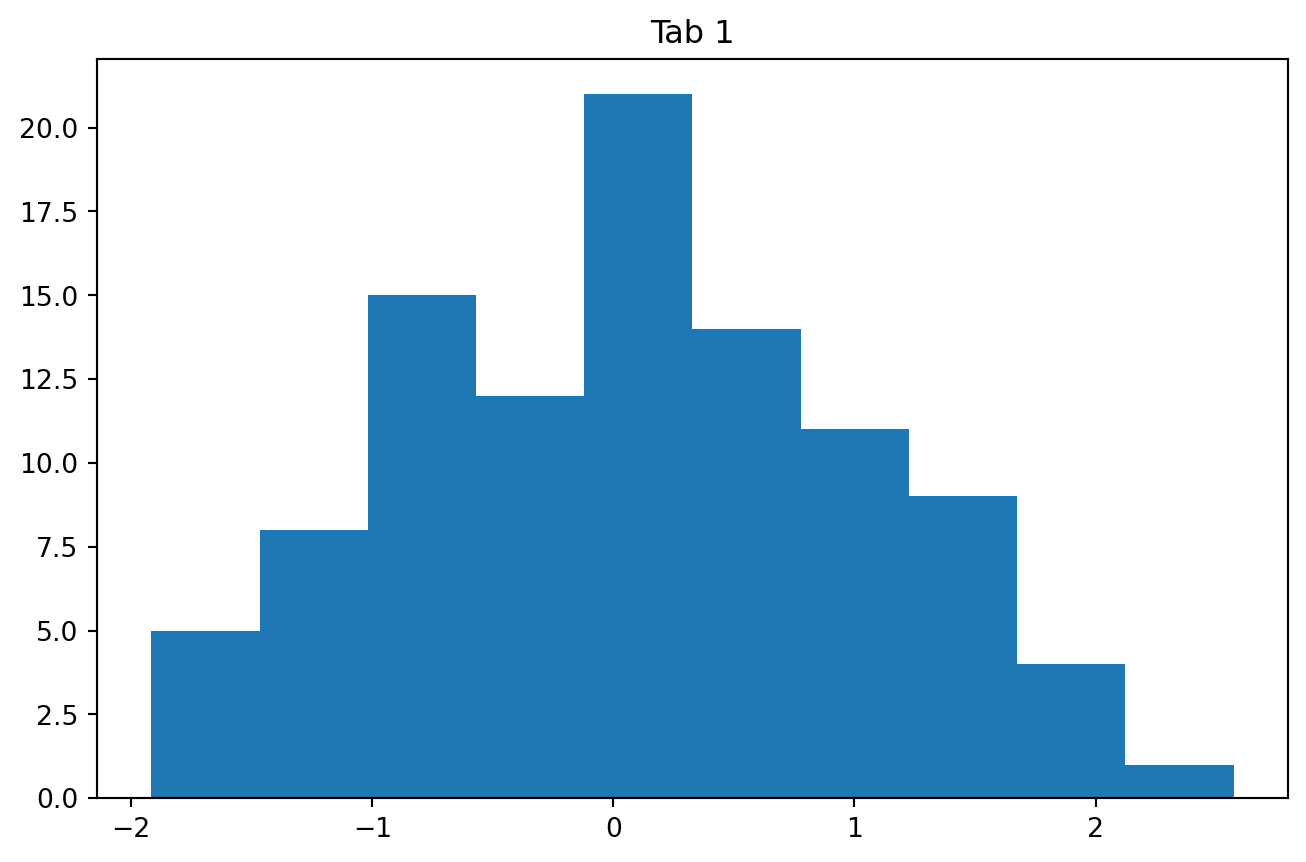
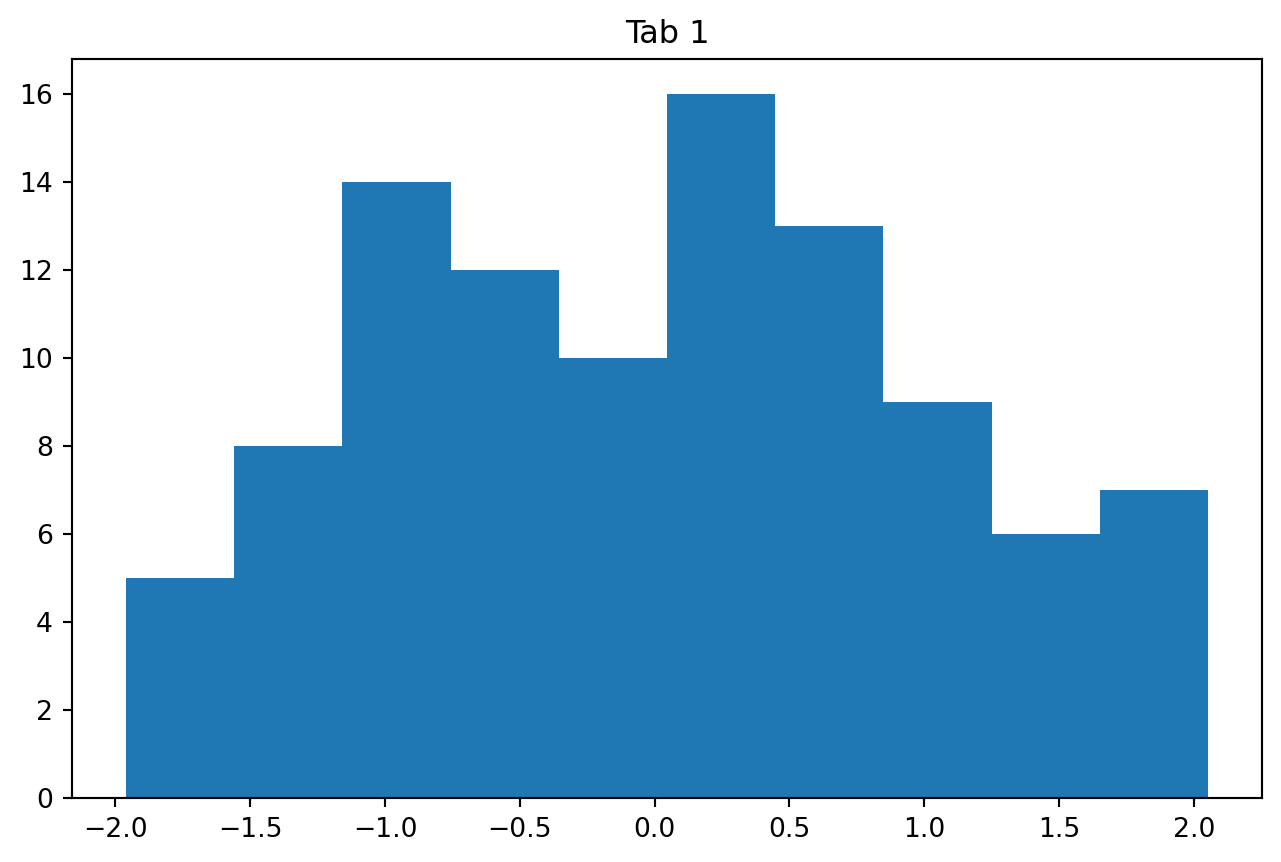
commit

diff --git a/docs/index.html b/docs/index.html
@@ -140,7 +140,7 @@ grid-auto-rows: minmax(0, 1fr);">
 <div class="card cell html-fill-item html-fill-container bslib-card" data-title="Ames Map 집값 지도" data-bslib-card-init="" data-require-bs-caller="card()" data-full-screen="false">
 <div class="card-header"><div class="card-title">Ames Map 집값 지도</div></div>
 <div class="card-body html-fill-item html-fill-container" style="padding: 0px;">
-<div class="cell-output cell-output-display html-fill-item html-fill-container" data-execution_count="1">
+<div class="cell-output cell-output-display html-fill-item html-fill-container" data-execution_count="14">
 
         <iframe width="100%" height="600px" src="maps/ames_house_price_map.html" frameborder="0" allowfullscreen=""></iframe>
         
@@ -216,42 +216,42 @@ grid-auto-rows: minmax(0, 1fr);">
 
 
 <div class="tab-content html-fill-item html-fill-container" data-tabset-id="card-tabset-8"><div class="tab-pane active show html-fill-item html-fill-container" role="tabpanel" id="card-tabset-8-1"><div class="card-body html-fill-item html-fill-container" data-title="Chart 1">
-<div class="cell-output cell-output-display html-fill-item html-fill-container" data-execution_count="2">
-<pre><code>(array([ 3.,  1., 12., 18., 16., 24., 12.,  9.,  3.,  2.]),
- array([-2.70961804, -2.16122381, -1.61282959, -1.06443536, -0.51604113,
-         0.0323531 ,  0.58074733,  1.12914155,  1.67753578,  2.22593001,
-         2.77432424]),
+<div class="cell-output cell-output-display html-fill-item html-fill-container" data-execution_count="15">
+<pre><code>(array([ 1.,  3.,  7., 17., 14., 21., 16.,  9.,  7.,  5.]),
+ array([-2.75074269, -2.25411916, -1.75749564, -1.26087212, -0.7642486 ,
+        -0.26762508,  0.22899844,  0.72562196,  1.22224548,  1.718869  ,
+         2.21549252]),
  &lt;BarContainer object of 10 artists&gt;)</code></pre>
 </div>
-<div class="cell-output cell-output-display html-fill-item html-fill-container" data-execution_count="2">
+<div class="cell-output cell-output-display html-fill-item html-fill-container" data-execution_count="15">
 <pre><code>Text(0.5, 1.0, 'Tab 1')</code></pre>
 </div>
 <div class="cell-output cell-output-display html-fill-item html-fill-container">
 <img src="index_files/figure-html/cell-3-output-3.png" class="quarto-dashboard-img-contain">
 </div>
 </div></div><div class="tab-pane html-fill-item html-fill-container" role="tabpanel" id="card-tabset-8-2"><div class="card-body html-fill-item html-fill-container" data-title="Chart 2">
-<div class="cell-output cell-output-display html-fill-item html-fill-container" data-execution_count="3">
-<pre><code>(array([ 1.,  5.,  8., 11., 15., 26., 17.,  6.,  7.,  4.]),
- array([-2.398318  , -1.93755797, -1.47679794, -1.01603791, -0.55527788,
-        -0.09451785,  0.36624219,  0.82700222,  1.28776225,  1.74852228,
-         2.20928231]),
+<div class="cell-output cell-output-display html-fill-item html-fill-container" data-execution_count="16">
+<pre><code>(array([ 3.,  6.,  8., 15., 16., 19., 11.,  9.,  5.,  8.]),
+ array([-2.19047554, -1.79457654, -1.39867753, -1.00277853, -0.60687953,
+        -0.21098053,  0.18491848,  0.58081748,  0.97671648,  1.37261549,
+         1.76851449]),
  &lt;BarContainer object of 10 artists&gt;)</code></pre>
 </div>
-<div class="cell-output cell-output-display html-fill-item html-fill-container" data-execution_count="3">
+<div class="cell-output cell-output-display html-fill-item html-fill-container" data-execution_count="16">
 <pre><code>Text(0.5, 1.0, 'Tab 1')</code></pre>
 </div>
 <div class="cell-output cell-output-display html-fill-item html-fill-container">
 <img src="index_files/figure-html/cell-4-output-3.png" class="quarto-dashboard-img-contain">
 </div>
 </div></div><div class="tab-pane html-fill-item html-fill-container" role="tabpanel" id="card-tabset-8-3"><div class="card-body html-fill-item html-fill-container" data-title="Chart 3">
-<div class="cell-output cell-output-display html-fill-item html-fill-container" data-execution_count="4">
-<pre><code>(array([ 3.,  2., 11., 24., 20., 25.,  8.,  4.,  1.,  2.]),
- array([-2.57085967, -1.98895416, -1.40704865, -0.82514314, -0.24323762,
-         0.33866789,  0.9205734 ,  1.50247892,  2.08438443,  2.66628994,
-         3.24819545]),
+<div class="cell-output cell-output-display html-fill-item html-fill-container" data-execution_count="17">
+<pre><code>(array([ 3.,  5., 11., 14., 18., 21., 12.,  7.,  4.,  5.]),
+ array([-2.30545989e+00, -1.84402785e+00, -1.38259582e+00, -9.21163782e-01,
+        -4.59731745e-01,  1.70029136e-03,  4.63132328e-01,  9.24564364e-01,
+         1.38599640e+00,  1.84742844e+00,  2.30886047e+00]),
  &lt;BarContainer object of 10 artists&gt;)</code></pre>
 </div>
-<div class="cell-output cell-output-display html-fill-item html-fill-container" data-execution_count="4">
+<div class="cell-output cell-output-display html-fill-item html-fill-container" data-execution_count="17">
 <pre><code>Text(0.5, 1.0, 'Tab 1')</code></pre>
 </div>
 <div class="cell-output cell-output-display html-fill-item html-fill-container">
@@ -273,42 +273,42 @@ grid-auto-rows: minmax(0, 1fr);">
 
 
 <div class="tab-content html-fill-item html-fill-container" data-tabset-id="card-tabset-9"><div class="tab-pane active show html-fill-item html-fill-container" role="tabpanel" id="card-tabset-9-1"><div class="card-body html-fill-item html-fill-container" data-title="Chart 1">
-<div class="cell-output cell-output-display html-fill-item html-fill-container" data-execution_count="5">
-<pre><code>(array([ 2.,  4., 15., 15., 21., 22., 11.,  7.,  2.,  1.]),
- array([-2.66481328, -2.07944726, -1.49408125, -0.90871523, -0.32334922,
-         0.26201679,  0.84738281,  1.43274882,  2.01811484,  2.60348085,
-         3.18884687]),
+<div class="cell-output cell-output-display html-fill-item html-fill-container" data-execution_count="18">
+<pre><code>(array([ 4.,  6., 11., 22., 16., 18., 13.,  5.,  4.,  1.]),
+ array([-2.54387009, -2.01880425, -1.49373841, -0.96867258, -0.44360674,
+         0.0814591 ,  0.60652493,  1.13159077,  1.65665661,  2.18172245,
+         2.70678828]),
  &lt;BarContainer object of 10 artists&gt;)</code></pre>
 </div>
-<div class="cell-output cell-output-display html-fill-item html-fill-container" data-execution_count="5">
+<div class="cell-output cell-output-display html-fill-item html-fill-container" data-execution_count="18">
 <pre><code>Text(0.5, 1.0, 'Tab 1')</code></pre>
 </div>
 <div class="cell-output cell-output-display html-fill-item html-fill-container">
 <img src="index_files/figure-html/cell-6-output-3.png" class="quarto-dashboard-img-contain">
 </div>
 </div></div><div class="tab-pane html-fill-item html-fill-container" role="tabpanel" id="card-tabset-9-2"><div class="card-body html-fill-item html-fill-container" data-title="Chart 2">
-<div class="cell-output cell-output-display html-fill-item html-fill-container" data-execution_count="6">
-<pre><code>(array([ 2.,  2.,  9.,  9., 19., 27., 16.,  8.,  3.,  5.]),
- array([-3.34067533, -2.71123265, -2.08178997, -1.45234729, -0.82290461,
-        -0.19346193,  0.43598075,  1.06542343,  1.69486611,  2.32430879,
-         2.95375147]),
+<div class="cell-output cell-output-display html-fill-item html-fill-container" data-execution_count="19">
+<pre><code>(array([ 4.,  4.,  8., 13., 22., 15., 18.,  8.,  4.,  4.]),
+ array([-2.40138174, -1.93076776, -1.46015379, -0.98953981, -0.51892584,
+        -0.04831186,  0.42230211,  0.89291609,  1.36353006,  1.83414404,
+         2.30475801]),
  &lt;BarContainer object of 10 artists&gt;)</code></pre>
 </div>
-<div class="cell-output cell-output-display html-fill-item html-fill-container" data-execution_count="6">
+<div class="cell-output cell-output-display html-fill-item html-fill-container" data-execution_count="19">
 <pre><code>Text(0.5, 1.0, 'Tab 1')</code></pre>
 </div>
 <div class="cell-output cell-output-display html-fill-item html-fill-container">
 <img src="index_files/figure-html/cell-7-output-3.png" class="quarto-dashboard-img-contain">
 </div>
 </div></div><div class="tab-pane html-fill-item html-fill-container" role="tabpanel" id="card-tabset-9-3"><div class="card-body html-fill-item html-fill-container" data-title="Chart 3">
-<div class="cell-output cell-output-display html-fill-item html-fill-container" data-execution_count="7">
-<pre><code>(array([10.,  7., 12., 15., 21., 11., 10.,  6.,  5.,  3.]),
- array([-1.74740738, -1.3265029 , -0.90559842, -0.48469395, -0.06378947,
-         0.357115  ,  0.77801948,  1.19892395,  1.61982843,  2.04073291,
-         2.46163738]),
+<div class="cell-output cell-output-display html-fill-item html-fill-container" data-execution_count="20">
+<pre><code>(array([ 3.,  5., 10., 17., 13., 25., 11.,  9.,  5.,  2.]),
+ array([-2.27171384, -1.81046663, -1.34921941, -0.8879722 , -0.42672498,
+         0.03452223,  0.49576945,  0.95701666,  1.41826388,  1.87951109,
+         2.34075831]),
  &lt;BarContainer object of 10 artists&gt;)</code></pre>
 </div>
-<div class="cell-output cell-output-display html-fill-item html-fill-container" data-execution_count="7">
+<div class="cell-output cell-output-display html-fill-item html-fill-container" data-execution_count="20">
 <pre><code>Text(0.5, 1.0, 'Tab 1')</code></pre>
 </div>
 <div class="cell-output cell-output-display html-fill-item html-fill-container">
@@ -335,42 +335,42 @@ grid-auto-rows: minmax(0, 1fr);">
 
 
 <div class="tab-content html-fill-item html-fill-container" data-tabset-id="card-tabset-10"><div class="tab-pane active show html-fill-item html-fill-container" role="tabpanel" id="card-tabset-10-1"><div class="card-body html-fill-item html-fill-container" data-title="Chart 1">
-<div class="cell-output cell-output-display html-fill-item html-fill-container" data-execution_count="8">
-<pre><code>(array([ 4.,  3., 11., 18., 11., 15., 12., 15.,  8.,  3.]),
- array([-2.30355359, -1.84704878, -1.39054396, -0.93403914, -0.47753432,
-        -0.0210295 ,  0.43547532,  0.89198014,  1.34848496,  1.80498978,
-         2.2614946 ]),
+<div class="cell-output cell-output-display html-fill-item html-fill-container" data-execution_count="21">
+<pre><code>(array([ 5.,  2.,  5., 12., 10., 23., 12., 16., 12.,  3.]),
+ array([-2.36775554, -1.94382262, -1.51988969, -1.09595677, -0.67202385,
+        -0.24809093,  0.17584199,  0.59977491,  1.02370783,  1.44764075,
+         1.87157368]),
  &lt;BarContainer object of 10 artists&gt;)</code></pre>
 </div>
-<div class="cell-output cell-output-display html-fill-item html-fill-container" data-execution_count="8">
+<div class="cell-output cell-output-display html-fill-item html-fill-container" data-execution_count="21">
 <pre><code>Text(0.5, 1.0, 'Tab 1')</code></pre>
 </div>
 <div class="cell-output cell-output-display html-fill-item html-fill-container">
 <img src="index_files/figure-html/cell-9-output-3.png" class="quarto-dashboard-img-contain">
 </div>
 </div></div><div class="tab-pane html-fill-item html-fill-container" role="tabpanel" id="card-tabset-10-2"><div class="card-body html-fill-item html-fill-container" data-title="Chart 2">
-<div class="cell-output cell-output-display html-fill-item html-fill-container" data-execution_count="9">
-<pre><code>(array([ 2.,  0.,  2.,  4., 18., 14., 26., 18.,  9.,  7.]),
- array([-3.4430603 , -2.90116943, -2.35927855, -1.81738768, -1.27549681,
-        -0.73360594, -0.19171507,  0.3501758 ,  0.89206667,  1.43395754,
-         1.97584841]),
+<div class="cell-output cell-output-display html-fill-item html-fill-container" data-execution_count="22">
+<pre><code>(array([ 5., 13., 11., 13., 16., 15., 11.,  9.,  3.,  4.]),
+ array([-1.87155831, -1.45287127, -1.03418423, -0.6154972 , -0.19681016,
+         0.22187688,  0.64056391,  1.05925095,  1.47793799,  1.89662502,
+         2.31531206]),
  &lt;BarContainer object of 10 artists&gt;)</code></pre>
 </div>
-<div class="cell-output cell-output-display html-fill-item html-fill-container" data-execution_count="9">
+<div class="cell-output cell-output-display html-fill-item html-fill-container" data-execution_count="22">
 <pre><code>Text(0.5, 1.0, 'Tab 1')</code></pre>
 </div>
 <div class="cell-output cell-output-display html-fill-item html-fill-container">
 <img src="index_files/figure-html/cell-10-output-3.png" class="quarto-dashboard-img-contain">
 </div>
 </div></div><div class="tab-pane html-fill-item html-fill-container" role="tabpanel" id="card-tabset-10-3"><div class="card-body html-fill-item html-fill-container" data-title="Chart 3">
-<div class="cell-output cell-output-display html-fill-item html-fill-container" data-execution_count="10">
-<pre><code>(array([ 1.,  6.,  9., 19., 20., 16., 16.,  8.,  3.,  2.]),
- array([-2.59984537, -2.04919649, -1.4985476 , -0.94789871, -0.39724983,
-         0.15339906,  0.70404795,  1.25469683,  1.80534572,  2.35599461,
-         2.9066435 ]),
+<div class="cell-output cell-output-display html-fill-item html-fill-container" data-execution_count="23">
+<pre><code>(array([ 3.,  6.,  8.,  6., 21., 10., 14., 11., 12.,  9.]),
+ array([-2.22264862, -1.80175255, -1.38085648, -0.95996041, -0.53906433,
+        -0.11816826,  0.30272781,  0.72362388,  1.14451996,  1.56541603,
+         1.9863121 ]),
  &lt;BarContainer object of 10 artists&gt;)</code></pre>
 </div>
-<div class="cell-output cell-output-display html-fill-item html-fill-container" data-execution_count="10">
+<div class="cell-output cell-output-display html-fill-item html-fill-container" data-execution_count="23">
 <pre><code>Text(0.5, 1.0, 'Tab 1')</code></pre>
 </div>
 <div class="cell-output cell-output-display html-fill-item html-fill-container">
@@ -392,42 +392,42 @@ grid-auto-rows: minmax(0, 1fr);">
 
 
 <div class="tab-content html-fill-item html-fill-container" data-tabset-id="card-tabset-11"><div class="tab-pane active show html-fill-item html-fill-container" role="tabpanel" id="card-tabset-11-1"><div class="card-body html-fill-item html-fill-container" data-title="Chart 1">
-<div class="cell-output cell-output-display html-fill-item html-fill-container" data-execution_count="11">
-<pre><code>(array([ 5.,  8., 15., 12., 21., 14., 11.,  9.,  4.,  1.]),
- array([-1.91607013, -1.46726471, -1.0184593 , -0.56965388, -0.12084846,
-         0.32795696,  0.77676237,  1.22556779,  1.67437321,  2.12317863,
-         2.57198405]),
+<div class="cell-output cell-output-display html-fill-item html-fill-container" data-execution_count="24">
+<pre><code>(array([ 5.,  8., 14., 12., 10., 16., 13.,  9.,  6.,  7.]),
+ array([-1.96104   , -1.55968527, -1.15833054, -0.7569758 , -0.35562107,
+         0.04573366,  0.4470884 ,  0.84844313,  1.24979786,  1.6511526 ,
+         2.05250733]),
  &lt;BarContainer object of 10 artists&gt;)</code></pre>
 </div>
-<div class="cell-output cell-output-display html-fill-item html-fill-container" data-execution_count="11">
+<div class="cell-output cell-output-display html-fill-item html-fill-container" data-execution_count="24">
 <pre><code>Text(0.5, 1.0, 'Tab 1')</code></pre>
 </div>
 <div class="cell-output cell-output-display html-fill-item html-fill-container">
 <img src="index_files/figure-html/cell-12-output-3.png" class="quarto-dashboard-img-contain">
 </div>
 </div></div><div class="tab-pane html-fill-item html-fill-container" role="tabpanel" id="card-tabset-11-2"><div class="card-body html-fill-item html-fill-container" data-title="Chart 2">
-<div class="cell-output cell-output-display html-fill-item html-fill-container" data-execution_count="12">
-<pre><code>(array([ 1.,  0.,  3., 12., 19., 12., 24., 15.,  8.,  6.]),
- array([-2.83562924, -2.35820225, -1.88077527, -1.40334829, -0.92592131,
-        -0.44849433,  0.02893265,  0.50635964,  0.98378662,  1.4612136 ,
-         1.93864058]),
+<div class="cell-output cell-output-display html-fill-item html-fill-container" data-execution_count="25">
+<pre><code>(array([ 3.,  4., 10.,  8., 15., 16., 15., 14.,  8.,  7.]),
+ array([-2.18331467, -1.76219415, -1.34107363, -0.91995311, -0.49883259,
+        -0.07771208,  0.34340844,  0.76452896,  1.18564948,  1.60677   ,
+         2.02789051]),
  &lt;BarContainer object of 10 artists&gt;)</code></pre>
 </div>
-<div class="cell-output cell-output-display html-fill-item html-fill-container" data-execution_count="12">
+<div class="cell-output cell-output-display html-fill-item html-fill-container" data-execution_count="25">
 <pre><code>Text(0.5, 1.0, 'Tab 1')</code></pre>
 </div>
 <div class="cell-output cell-output-display html-fill-item html-fill-container">
 <img src="index_files/figure-html/cell-13-output-3.png" class="quarto-dashboard-img-contain">
 </div>
 </div></div><div class="tab-pane html-fill-item html-fill-container" role="tabpanel" id="card-tabset-11-3"><div class="card-body html-fill-item html-fill-container" data-title="Chart 3">
-<div class="cell-output cell-output-display html-fill-item html-fill-container" data-execution_count="13">
-<pre><code>(array([ 2.,  2.,  8., 10., 20., 16., 19., 10.,  9.,  4.]),
- array([-3.0636191 , -2.52777815, -1.99193719, -1.45609624, -0.92025528,
-        -0.38441433,  0.15142662,  0.68726758,  1.22310853,  1.75894949,
-         2.29479044]),
+<div class="cell-output cell-output-display html-fill-item html-fill-container" data-execution_count="26">
+<pre><code>(array([ 5.,  4., 11., 17., 18., 21., 10.,  9.,  4.,  1.]),
+ array([-2.40644515, -1.87022763, -1.33401011, -0.7977926 , -0.26157508,
+         0.27464244,  0.81085996,  1.34707748,  1.883295  ,  2.41951252,
+         2.95573004]),
  &lt;BarContainer object of 10 artists&gt;)</code></pre>
 </div>
-<div class="cell-output cell-output-display html-fill-item html-fill-container" data-execution_count="13">
+<div class="cell-output cell-output-display html-fill-item html-fill-container" data-execution_count="26">
 <pre><code>Text(0.5, 1.0, 'Tab 1')</code></pre>
 </div>
 <div class="cell-output cell-output-display html-fill-item html-fill-container">
